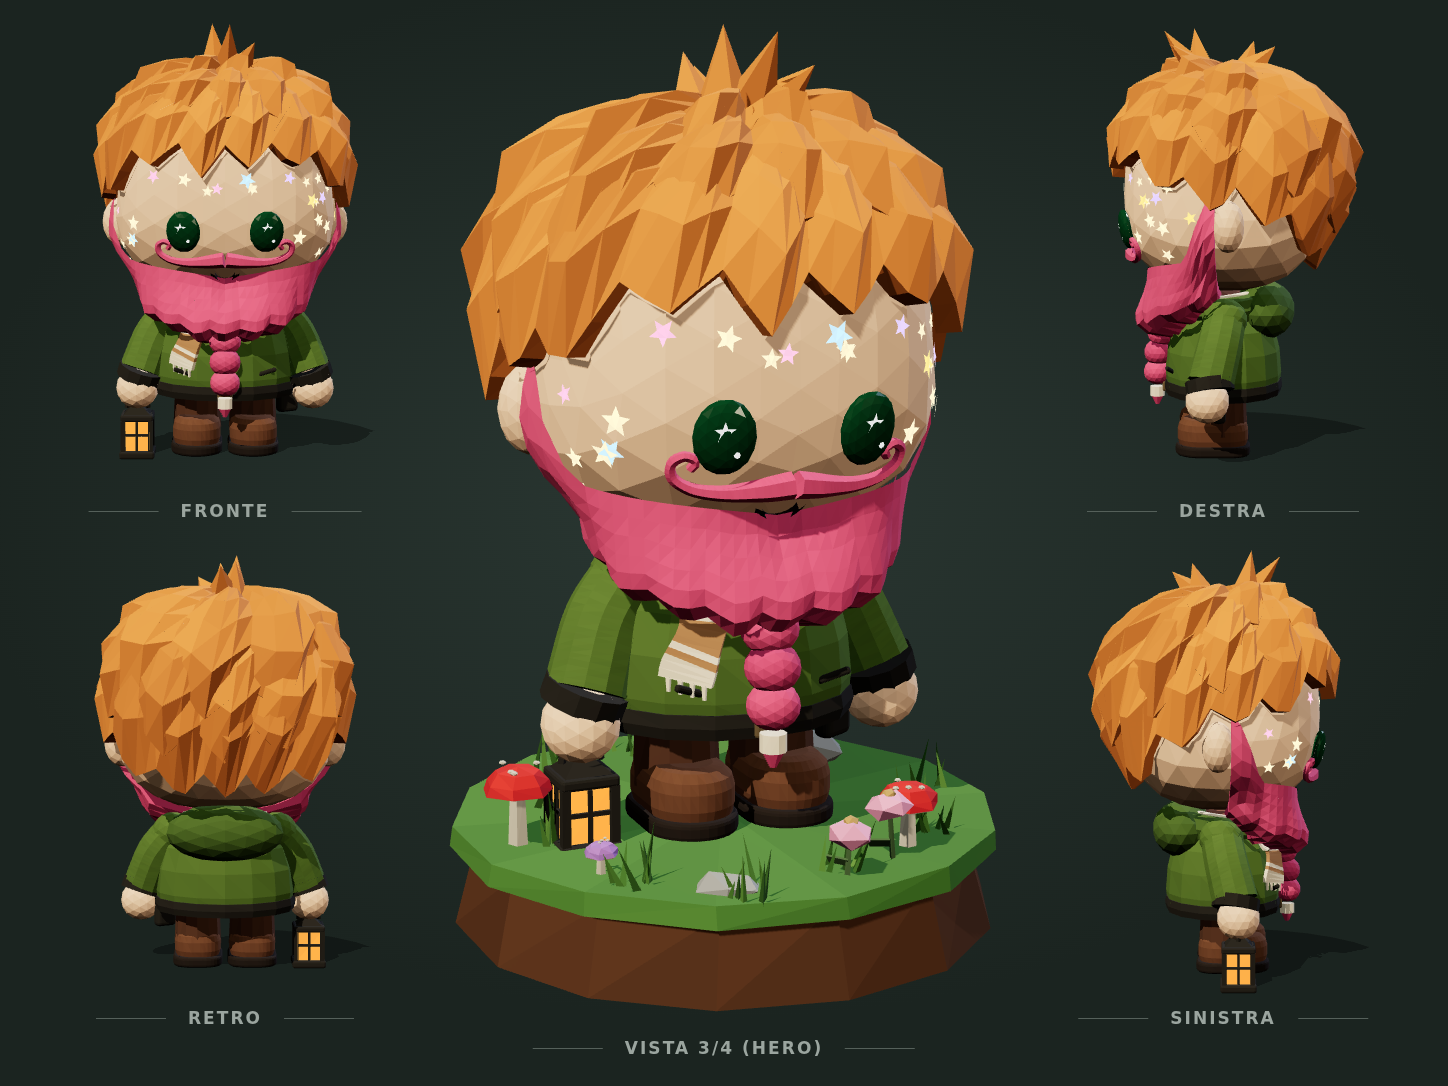
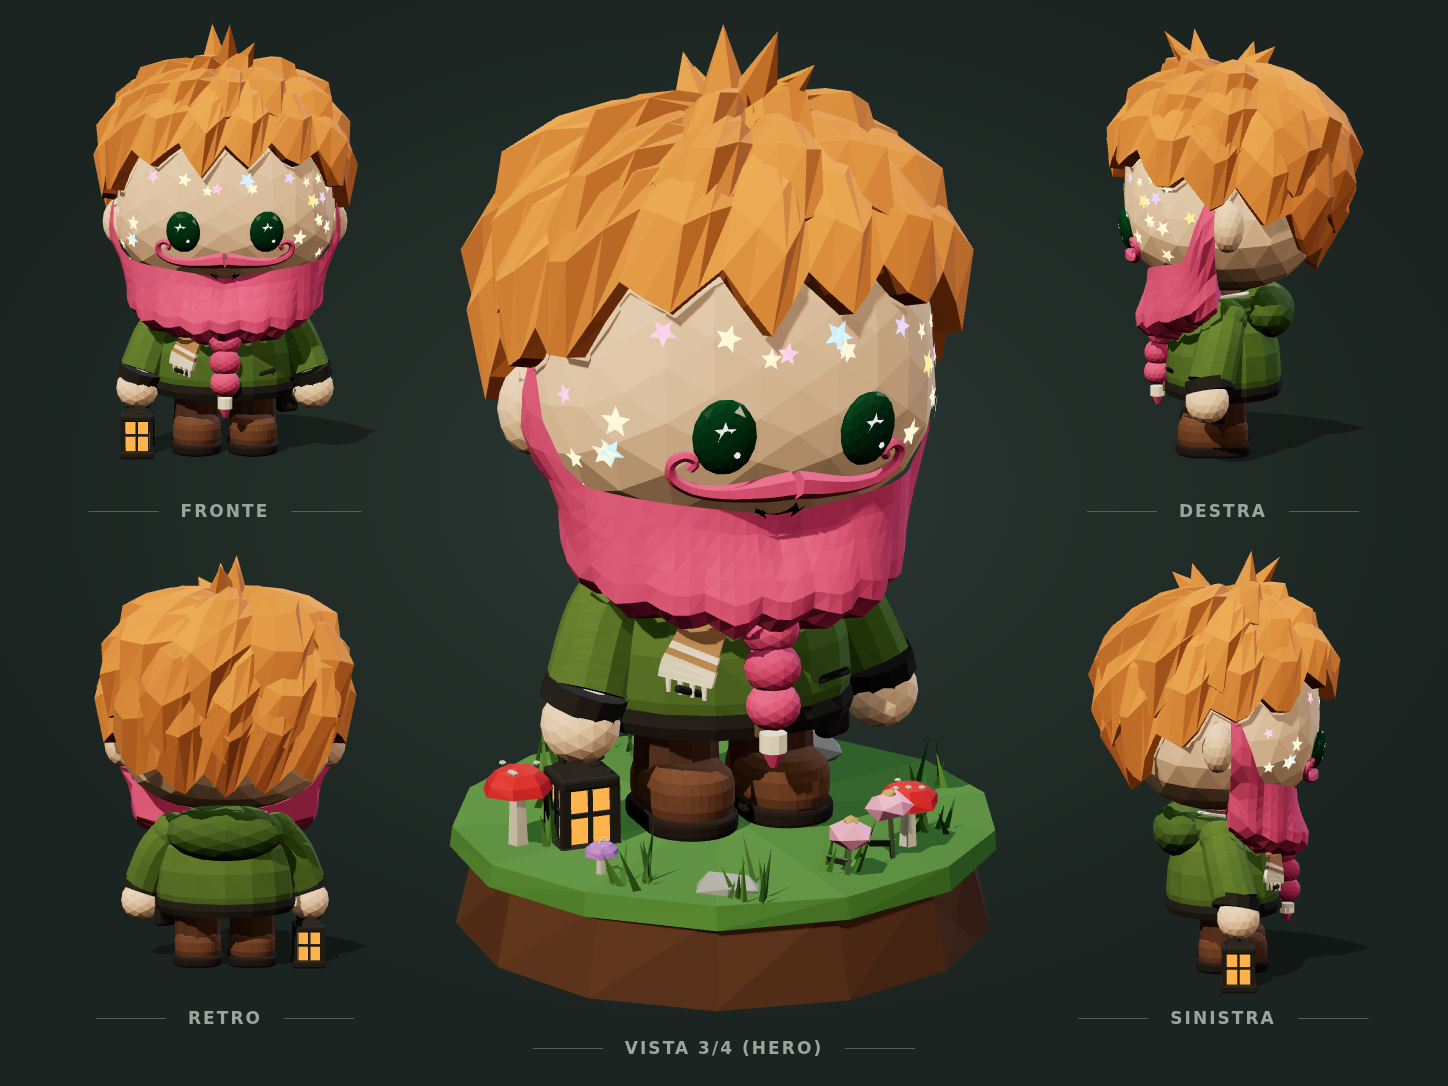
Style prototype v2: fuller, longer beard on the sides
Sides keep more length towards the ear and swell outwards, so from the front
the beard fills the area beside the jaw down from the sideburns, as in the
user's sketch.

Claude-Session: https://claude.ai/code/session_01U6u5RojYrwYjZd8sSRU7em

diff --git a/Prototype-3d/src/proto/custodeV2.ts b/Prototype-3d/src/proto/custodeV2.ts
@@ -294,9 +294,9 @@ function beardSlices(): BeardSlice[] {
     const r6 = skinR(th, 0.6);
     let jaw = 0.6;
     while (jaw > 0.45 && skinR(th, jaw) > r6 * 0.82) jaw -= 0.004; // dove la pelle rientra sotto la mascella
-    const length = lerp(BEARD_DROP + 0.035, 0.045, Math.pow(au, 1.9)); // si accorcia piano: i lati restano pieni fin sotto l'orecchio
+    const length = lerp(BEARD_DROP + 0.035, 0.085, Math.pow(au, 2.6)); // i lati restano lunghi e pieni fin sotto l'orecchio
     const yHem = Math.min(jaw - length, yTop - 0.045) - 0.022 * len * tooth * (1 - 0.4 * au);
-    const rFloor = r6 * (0.985 - 0.04 * au) + 0.028 * (1 - au * au) + 0.012; // un po' bombata davanti, piena anche sui lati
+    const rFloor = r6 * (0.985 - 0.04 * au) + 0.028 * (1 - au * au) + 0.012 + 0.03 * smooth(0.55, 1, au); // bombata davanti, piena e larga anche sui lati
     out.push({ th, rad: new THREE.Vector3(Math.sin(th), 0, Math.cos(th)), yTop, yHem, rFloor, rIn: rFloor * 0.45, tone, ridge: Math.sin(Math.PI * w) });
   }
   return out;
